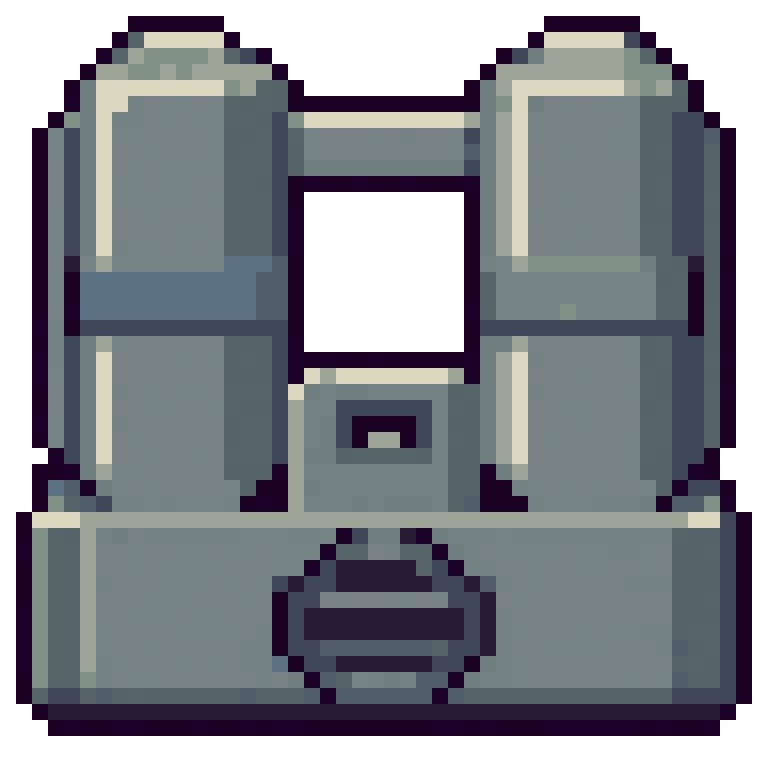
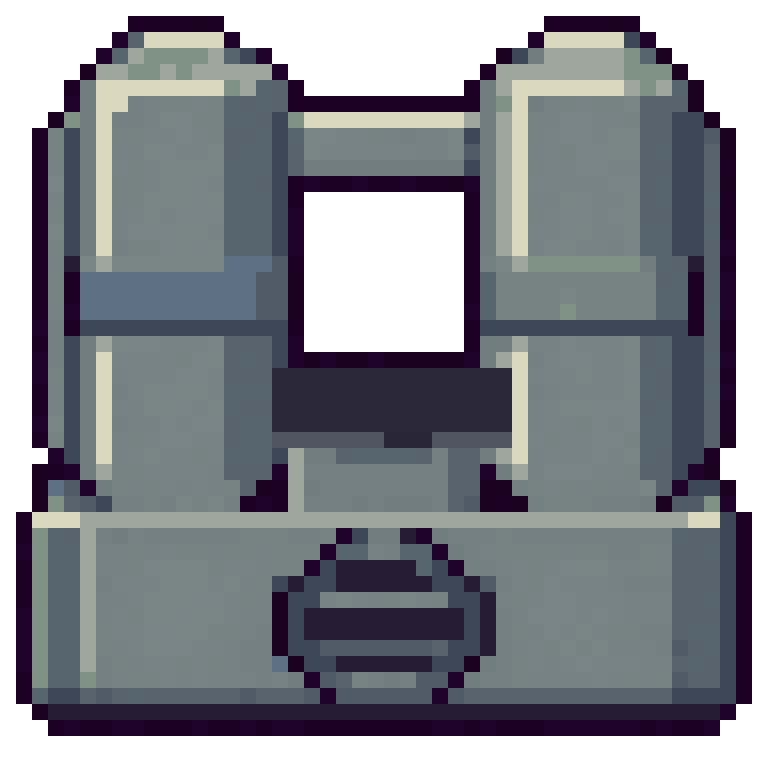
art: 空分机改用低细节母图重制，四态对照预览同步
- 空分机母图按 48×48 可读性重新生成：双分离柱简化为低细节、底部改单个进气口，提示词见 air-separator-low-detail-prompt.json
- 运行时贴图、_powered 变体与对照预览随之重出；提取机与模组装配机维持原母图
- WorkOrder 说明补记低细节母图来源，并注明状态精修只改指示灯

Changed region(s): [[0.3438, 0.4688, 0.6875, 0.5938]]

diff --git a/ArtSource/WorkOrders/completed/2026-11-02-machine-redraw/README.md b/ArtSource/WorkOrders/completed/2026-11-02-machine-redraw/README.md
@@ -2,7 +2,7 @@
 
 使用内置 imagegen 工具分别生成三张透明母图，风格参考为 `ArtSource/References/native/` 中的 `evaporator.png`、`furnace.png` 和 `chem_finisher.png`。完整提示词见 `prompts.json`。
 
-- `air_separator-master.png`：双分离柱、蓝绿色出口色带与底部进气风机。
+- `air_separator-master.png`：低细节双分离柱、蓝绿色出口色带与底部单个进气口。最终母图由内置 imagegen 针对 48×48 可读性重新生成，提示词见 `air-separator-low-detail-prompt.json`；`prompts.json` 中的同名条目为细节过多的初稿记录。
 - `rust_extractor-master.png`：左侧过滤柱、右侧含锈色沉积物的收集罐与底部收集抽屉。
 - `chip_fab-master.png`：封闭式自动装配机柜，观察窗内为加工头和电路板，正面设进料槽、成品出口与控制面板。该版本替换了先前的开放工作台设计，最终提示词见 `chip-fab-machine-prompt.json`（`prompts.json` 中的同名条目为初稿记录）。
 - `*-before.png`：本次重绘前的运行时贴图，仅供对比，不参与生成。
@@ -13,7 +13,7 @@
 
 ## 状态精修
 
-以现有像素图为基础做确定性局部修改，没有重新生成母图。补回空分出口色带和电路板颜色；不同状态仅改变指示灯、罐内沉积物或电路板，机壳、管道、玻璃轮廓、透明掩码和占格完全一致。
+以现有像素图为基础做确定性局部修改。提取机与装配机沿用原母图；空分机按可读性反馈重新生成低细节母图后，仅修改指示灯。补回电路板颜色；不同状态仅改变指示灯、罐内沉积物或电路板，机壳、管道、玻璃轮廓、透明掩码和占格完全一致。
 
 - 无后缀：缺电、空舱。
 - `_powered`：供电、空舱。指示灯表示电池满足至少一种配方的当前耗电量，包含模块修正；不表示完整配方已就绪。
